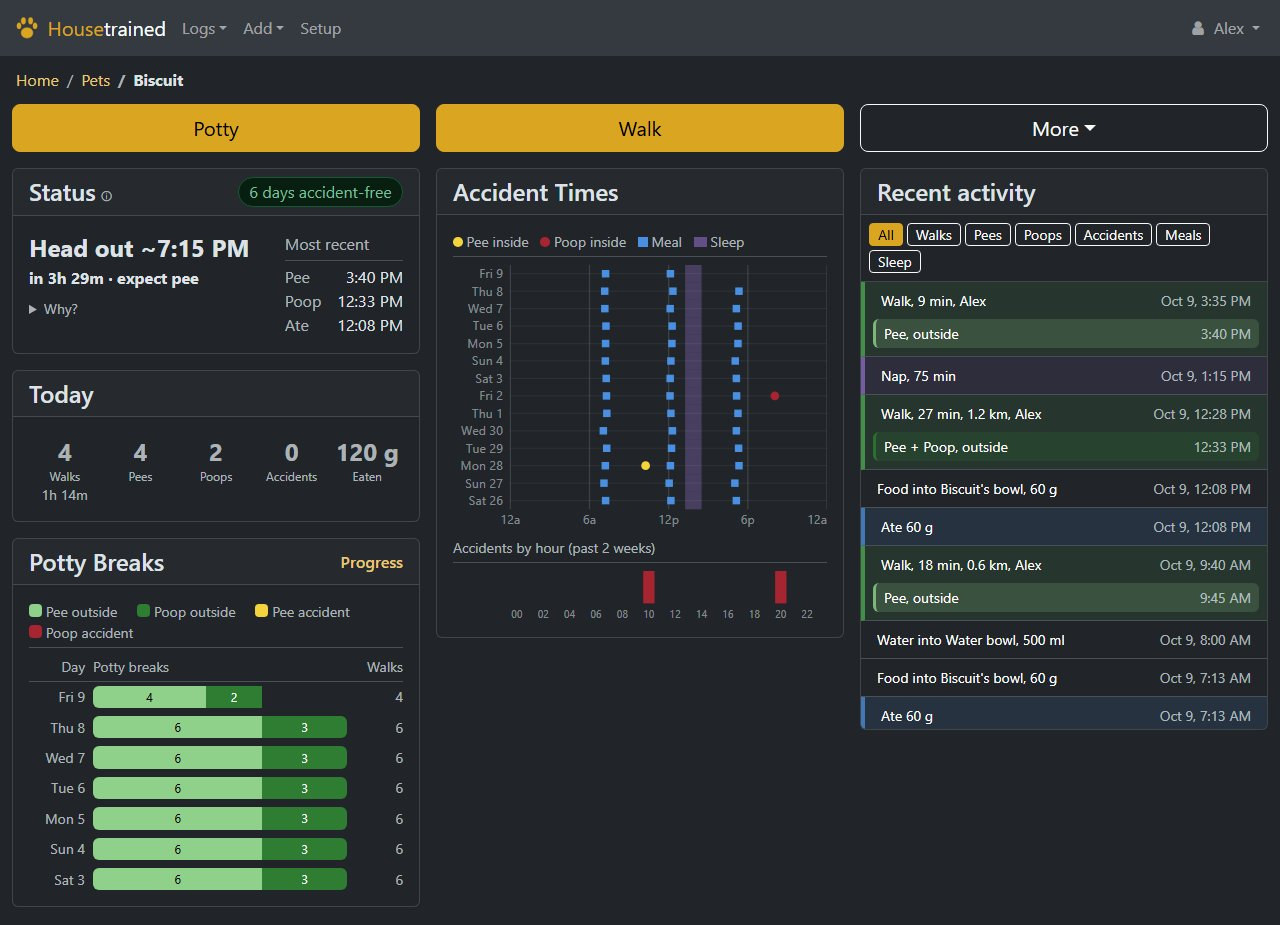
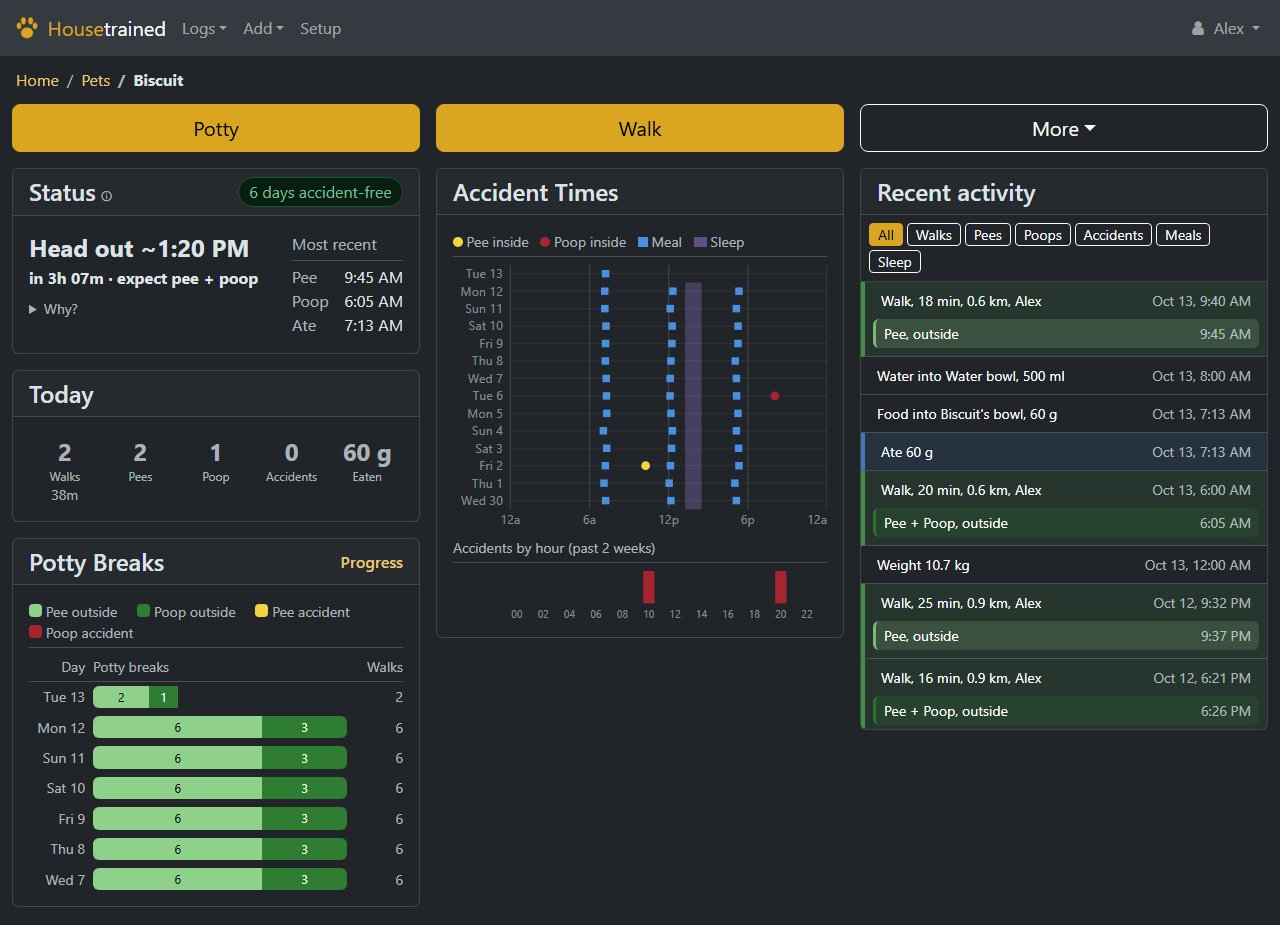
README: dark screenshots side by side, nothing floating over headings

diff --git a/README.md b/README.md
@@ -12,9 +12,10 @@ Housetrained is a fork of [Baby Buddy](https://github.com/babybuddy/babybuddy). 
 Turn on baby mode and track both in one place: babies sit next to the pets on the home page, with all of
 Baby Buddy's baby tracking (feedings, diapers, sleep, pumping, growth) under the Baby menu.
 
-![Pet dashboard](docs/screenshots/pet-dashboard.jpg)
-
-<img src="docs/screenshots/pet-phone.jpg" width="260" align="right" alt="A pet's page on a phone, light theme">
+<p align="center">
+  <img src="docs/screenshots/pet-dashboard.jpg" width="72%" alt="A pet's page on a computer">
+  <img src="docs/screenshots/pet-phone.jpg" width="24%" alt="The same page on a phone">
+</p>
 
 ## What it does
 
@@ -34,8 +35,6 @@ Baby Buddy's baby tracking (feedings, diapers, sleep, pumping, growth) under the
   [Private by design](#private-by-design)).
 - **First-run checklist** on each pet's page: schedule, quiet hours, bowls, reminders.
 - **Export everything** as CSV (Setup > Export), **import** past records, and a [REST API](docs/housetrained/api.md).
-
-<br clear="right">
 
 ## Fill Bowl or Log Meal?
 
